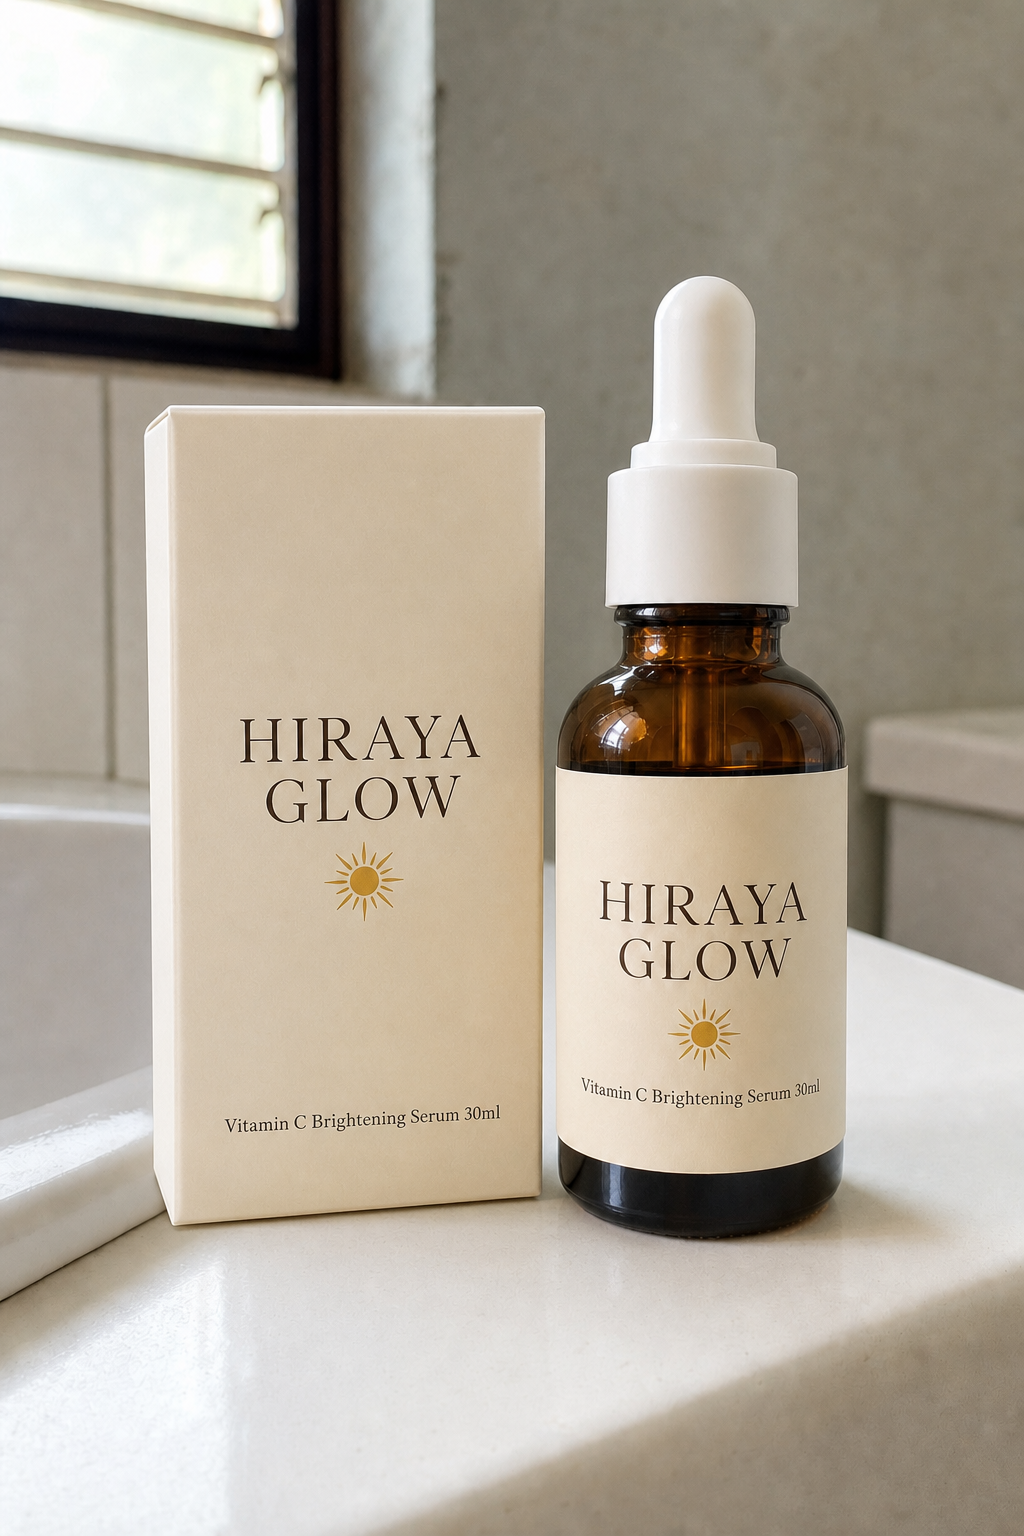
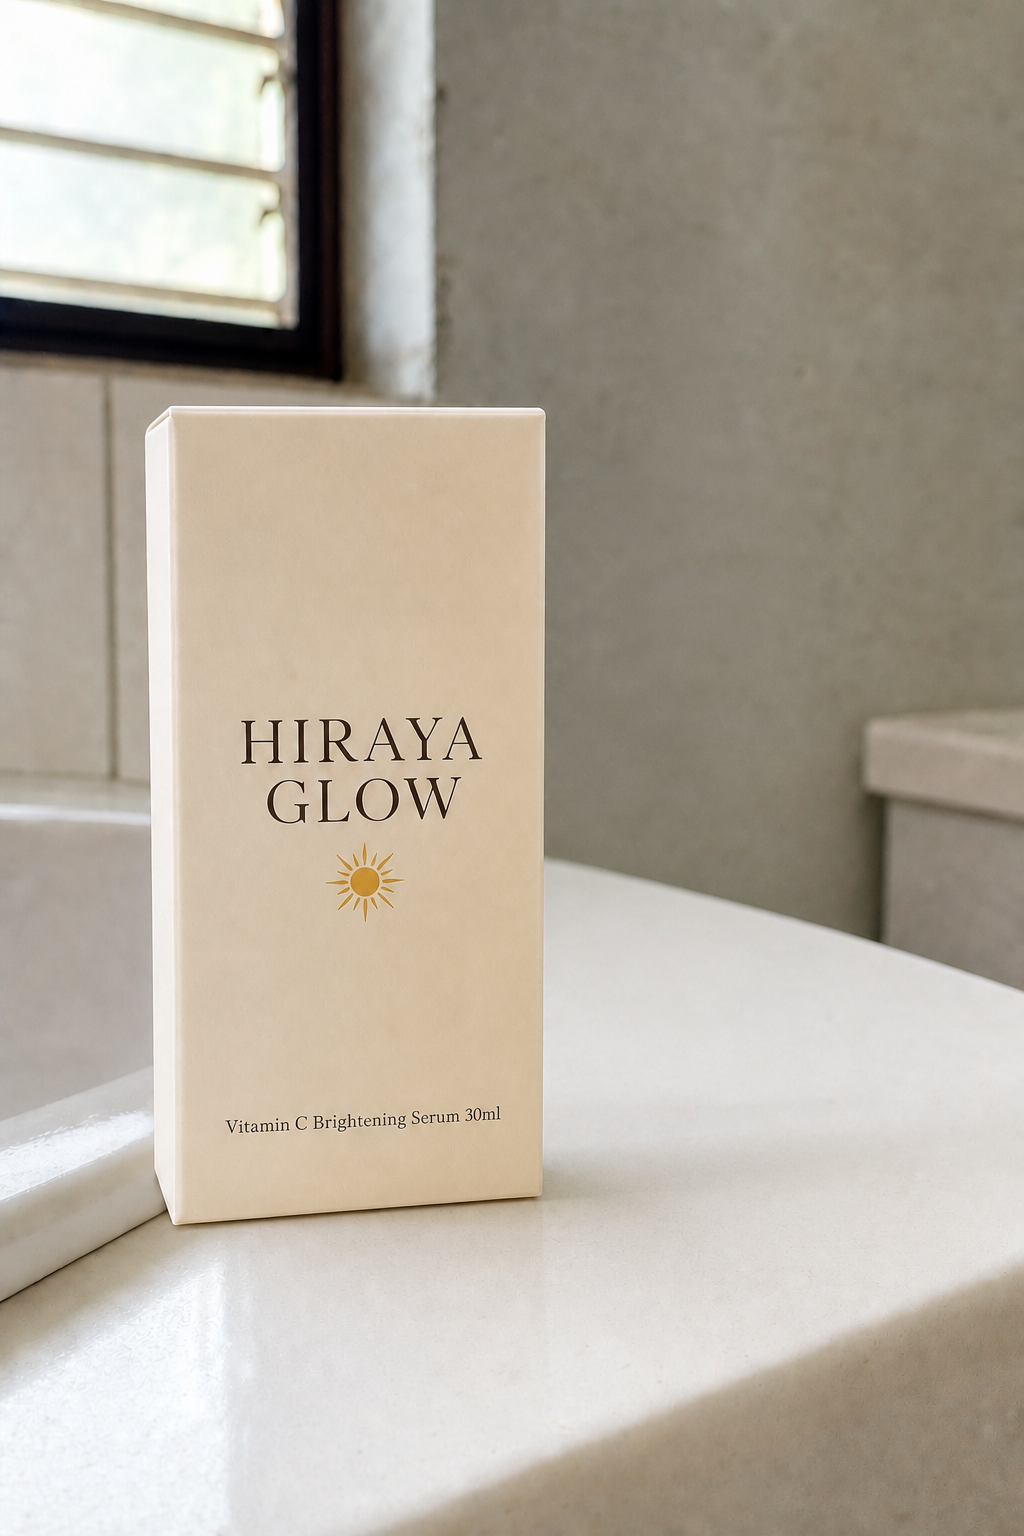
assets(samples): the packaging slot now shows the container ALONE, example included
Every packaging photo we had showed the box AND the product side by side. So did the
example image the app puts beside the upload slot. Neil's read: the model is handed one
picture containing two candidate subjects, and it picks the wrong one - which matches what
scene 3 of the second Bukid run actually rendered, the pouch in the packaging photo's own
room, box absent.

Three regenerated as codex-image --edit off the existing shots rather than fresh from the
heroes, so the box keeps its exact label, size, position, room and daylight and only the
second object leaves:

  tests/fixtures/sample-batch/bukid-packaging.jpg   kraft box, pouch removed
  tests/fixtures/sample-batch/silid-packaging.jpg   green box, jar removed
  public/examples/ex-product-packaging.png          cream box, dropper bottle removed

The example matters as much as the fixtures and was Neil's addition. The slot's own hint
reads "box / label - required, it is the co-star", but the picture under it showed a box
plus a bottle, so the app was teaching users to upload the exact thing that confuses the
generator. Fixing our two brand assets while shipping that example would have left the
defect in every real customer's hands.

Also carries the revised Bukid offer line: "swabe sa tiyan, hindi mapait" is now licensed
in the brief (run 1 invented it, run 2 correctly refused to - the guard works, but the claim
is barako's whole objection and belongs in the brief), and "unang 50 lang" borrows the exact
[…]

diff --git a/workflows/sample_brand_briefs.md b/workflows/sample_brand_briefs.md
@@ -109,7 +109,27 @@ check out. Re-add it with the pattern below before any run.
 
 - **Brand:** `Bukid Coffee` · **Price:** `₱280`
 - **Offer:**
-  > Barako na galing mismo sa bukid, 250g medium roast. ₱249 ngayong launch week, dating ₱280. Libreng padala sa unang 50.
+  > Barako na swabe sa tiyan, hindi mapait. 250g medium roast, galing mismo sa bukid. ₱249 ngayong launch week, dating ₱280. Libreng padala sa unang 50 lang.
+
+  **Revised 2026-08-29 after the second run**, and the two changes are for different reasons.
+
+  *"Swabe sa tiyan, hindi mapait"* is now stated because the model **invented it in run 1 and
+  correctly dropped it in run 2** — the SCENE COUNT / HOOK SITUATION rules added that day
+  stopped it claiming what the brief never licensed. That guard working is good. But this is
+  barako's whole objection: the category's reputation is that it is harsh, and nothing else
+  in the ad answers "why THIS one". A claim the product owns belongs in the brief, not in a
+  prompt. It leads the line because the model reaches for the opening clause first.
+
+  *"Unang 50 lang"* gained its `lang` on purpose. Run 2 dropped the scarcity entirely while
+  keeping the free shipping, leaving a gift with no reason to act today. The tuned CTA block
+  names its preferred spoken-casual form outright — [`prompts.ts:771`](../api/_lib/prompts.ts#L771)
+  says *"if used, keep it spoken-casual (\"first 50 lang\")"* — so the brief now hands the
+  model the exact shape its own rules already ask for, instead of a phrasing it has to
+  convert.
+
+  Deliberately NOT phrased as *"hindi sumasakit ang tiyan"*: that reads as a medical claim.
+  Swabe and mapait are taste and comfort words, which is what the product can actually stand
+  behind.
 
 ### 2 · Silid Home — Unboxing ASMR
 
